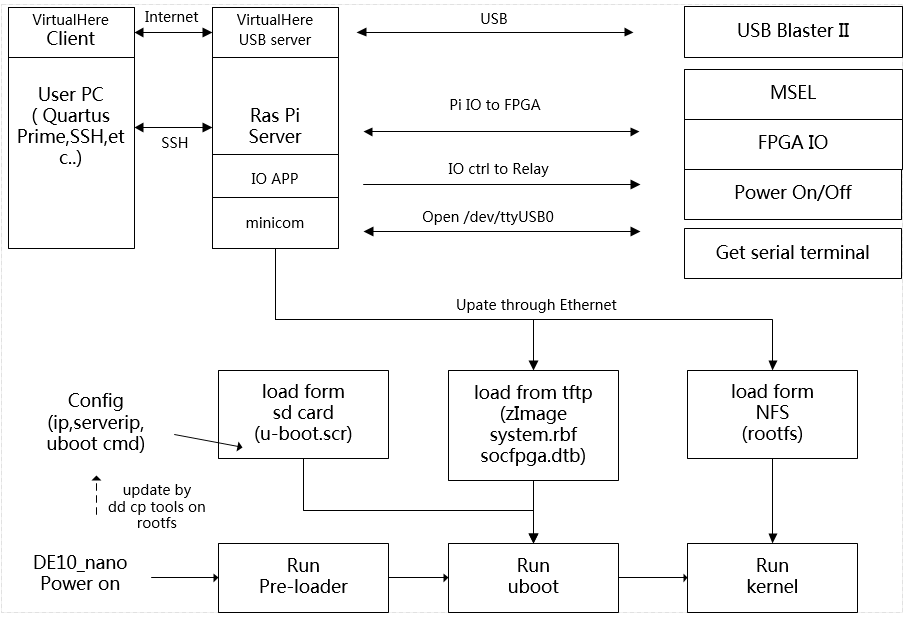
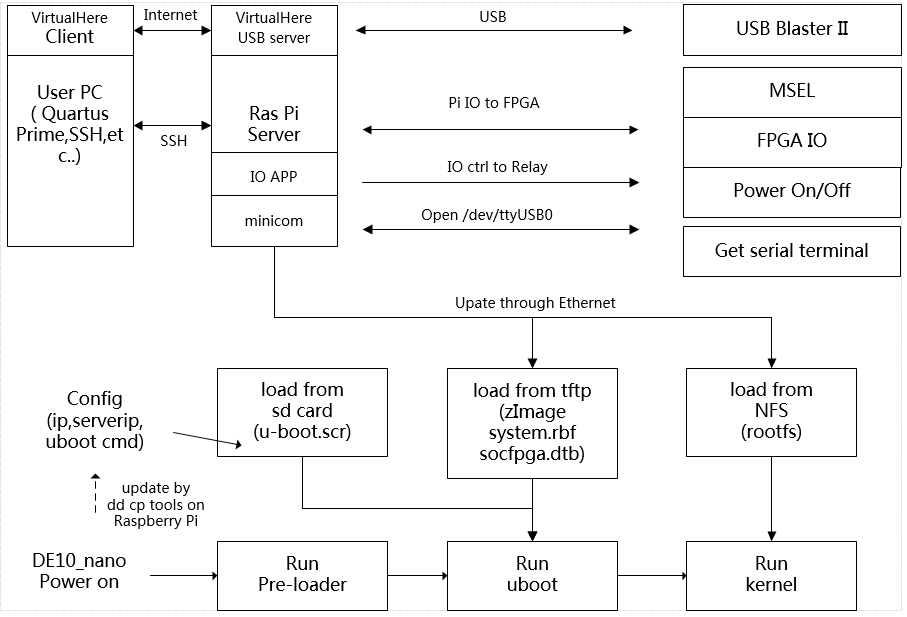
add virtualhere guids

diff --git a/README.md b/README.md
@@ -2,8 +2,8 @@
 
 ## Hardware
 - DE10-nano
-- Rspberry Pi
-- 2 sdcard
+- Raspberry Pi
+- 2 MicroSD card
 - router
 - ...
 
@@ -15,27 +15,37 @@
 
 ## How to do
 
-1. write a rasbian image to Raspberry Pi sdcard and boot the Raspberry Pi, run
+1. write a Raspbian image to Raspberry Pi MicroSD card and boot the Raspberry Pi, run
 ```
    sudo mkdir -p /opt/sdcard
 ```
-then,copy the `boot` and `rootfs` to `/opt/sdcard` on Raspberry Pi sdcard
-
-2. install tftp and nfs server on Raspberry Pi
+2. downlaod and copy the `boot` and `rootfs` to `/opt/sdcard` on Raspberry Pi MicroSD
+3. extract the rootfs achrive to `/opt/sdcard/roofts`
+4. install tftp and nfs server on Raspberry Pi
 ```
-   sudo apt-get install vim tftpd-hpa nfs-kernel-server
+   sudo apt-get install vim minicom tftpd-hpa nfs-kernel-server
    sudo vim /etc/default/tftpd-hpa
    sudo service tftpd-hpa restart
    sudo vim /etc/exports 
    sudo service nfs-kernel-server restart
    sudo exportfs -v
-   sudo minicom
    ifconfig
 ```
-3. unzip the sdcard image anf write to a sdcard for de10_nano
-4. change the ip severip gateway mask in u-boot.scr
+for tftpd-hpa config
+```
+   TFTP_USERNAME="tftp"
+   TFTP_DIRECTORY="/opt/sdcard"
+   TFTP_ADDRESS="0.0.0.0:69"
+   TFTP_OPTIONS="--secure"
+```
+for NFS server config
+```
+   /opt/sdcard/rootfs/ *(rw,no_subtree_check,sync,no_root_squash)    
+```
+5. unzip the sdcard image and write it to a MicroSD card for de10_nano
+6. change the ip severip gateway mask in u-boot.scr
 ![](figure/u-boot.scr_modify.png)
-5. boot the de10_nano
+7. boot the de10_nano
 
 ## de10_nano boot logs
 ```

diff --git a/VirtualHere.md b/VirtualHere.md
@@ -1,0 +1,25 @@
+# VirtualHere Remote USB
+Connect the DE10_nano USB Serial and USB Blaster II to Raspberry Pi.Power ON this System and click `Use The Device` on VirtualHere client.Then you can get these USB devices through Ethernet. 
+
+![](figure/virtualhere_client.png)
+
+## Install VirtualHere Server On Raspberry Pi
+```
+	wget https://www.virtualhere.com/sites/default/files/usbserver/vhusbdarm
+	wget http://www.virtualhere.com/sites/default/files/usbserver/scripts/vhusbdpin
+	sudo chmod a+x vhusbdarm
+	sudo chmod a+x vhusbdpin 
+	sudo mv vhusbdarm /usr/sbin/
+	sudo mv vhusbdpin /etc/init.d
+	sudo update-rc.d vhusbdpin defaults
+	sudo reboot 
+```
+## Config VirtualHere Client On PC
+
+```
+	wget https://virtualhere.com/sites/default/files/usbclient/vhuit64
+	sudo chmod a+x vhuit64
+	sudo ./vhuit64
+```
+set the Raspberry Pi IP as serverip
+![](figure/virtualhere_client_config.png)
